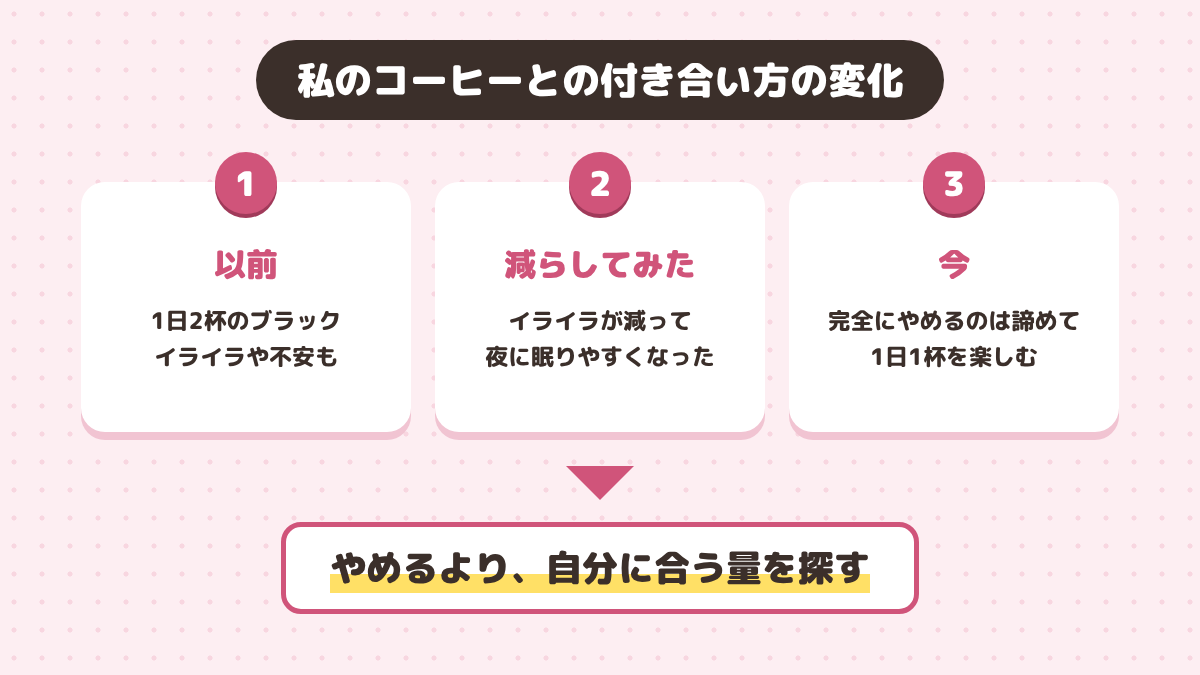
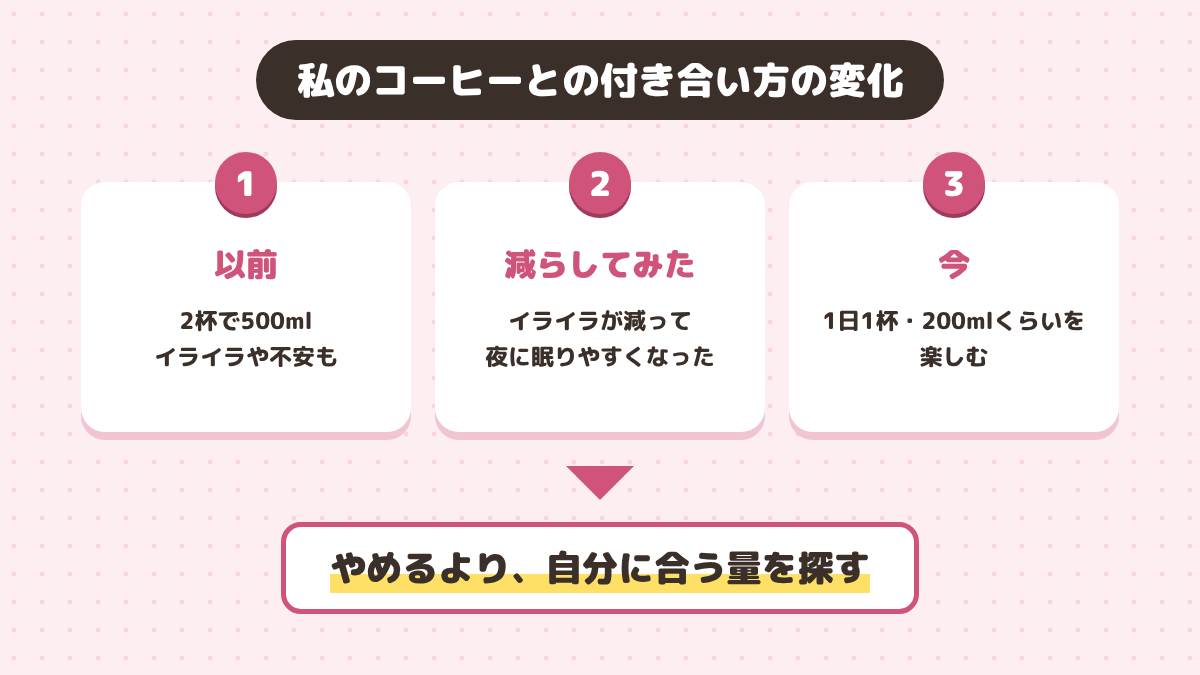
投稿141・151を改稿して反映、登録リクエスト一覧と作業メモを更新
Claude-Session: https://claude.ai/code/session_01AbwgezYxuzkhNMxoZh4PnK

Changed region(s): [[0.6783, 0.4356, 0.925, 0.56], [0.1233, 0.4356, 0.2775, 0.4978]]

diff --git a/ブログジャンル選定/記事_コーヒーを減らした.md b/ブログジャンル選定/記事_コーヒーを減らした.md
@@ -12,11 +12,11 @@
 
 ## 減らす前の私：1日2杯のブラックコーヒー
 
-以前の私は、コーヒーを1日2杯、500mlを朝と昼に飲んでいました。ブラックで飲むことが多く、量としてはかなり多かったと思います。
+以前の私は、朝と昼にコーヒーを1杯ずつ、2杯で合わせて500mlくらい飲んでいました。ブラックで飲むことが多く、量としてはかなり多かったと思います。
 
 飲んだ直後はシャキッとします。頭が働く感じがして、やる気も出る。でもその一方で、こんなことがありました。
 
-<div class="blank-box bb-orange"><p><strong>コーヒーを飲みすぎていた頃に感じていたこと</strong></p><ul><li>頭が痛くなる</li><li>イライラしやすい</li><li>不安感が強くなる</li><li>夜に動悸のようなものを感じる</li><li>体は疲れているのに、頭だけ起きている感じで眠りにくい</li></ul></div>
+<div class="blank-box bb-orange"><p><strong>コーヒーを飲みすぎていた頃に感じていたこと</strong></p><ul><li>頭が痛くなる</li><li>イライラしやすい</li><li>不安感が強くなる</li><li>夜に動悸のようなものを感じる</li><li>体は疲れているのに、頭だけ起きている感じで眠りにくい（500ml飲んだ日は、夜に眠れなくなることもあった）</li></ul></div>
 
 「自分にはちょっと強いのかもしれない」。そう思って、量を減らしてみることにしました。
 
@@ -57,7 +57,9 @@ https://health-reset-note.com/adhd%e3%81%a8%e7%9d%a1%e7%9c%a0%e3%81%af%e9%96%a2%
 
 ## 結局、完全にやめるのはあきらめた
 
-正直に書くと、その後、コーヒーを完全にやめることはあきらめました。今は、1日1杯は飲んでいます。
+正直に書くと、その後、コーヒーを完全にやめることはあきらめました。今は、1日1杯、200mlくらいは飲んでいます。よく飲む日でも、250〜300mlまでです。
+
+500mlまで飲むと、夜に眠れなくなってしまいます。だから私にとっては、==1日200〜300mlくらいが、眠りを邪魔しない目安==になっています。
 
 コーヒーは、私にとって楽しみの一つでもあります。完全にやめてしまうと、その楽しみまでなくなってしまう。それはそれで、毎日が少し味気なくなります。
 
@@ -75,7 +77,7 @@ https://health-reset-note.com/adhd%e3%81%a8%e7%9d%a1%e7%9c%a0%e3%81%af%e9%96%a2%
 
 ## まとめ：やめるより、自分に合う量を探す
 
-<div class="tab-caption-box"><div class="tab-caption-box-label">私のコーヒーとの付き合い方</div><div class="tab-caption-box-content"><ul><li>以前：1日2杯（500mlを朝と昼に）で、イライラや不安、眠りにくさがあった</li><li>減らしてみたら：イライラが減り、夜も眠りやすくなった（午前中はつらかった）</li><li>今：完全にやめるのはあきらめて、1日1杯を楽しむ</li></ul></div></div>
+<div class="tab-caption-box"><div class="tab-caption-box-label">私のコーヒーとの付き合い方</div><div class="tab-caption-box-content"><ul><li>以前：朝と昼の2杯で合わせて500ml。イライラや不安、眠りにくさがあった</li><li>減らしてみたら：イライラが減り、夜も眠りやすくなった（午前中はつらかった）</li><li>今：完全にやめるのはあきらめて、1日1杯・200mlくらいを楽しむ（多い日でも250〜300ml）</li></ul></div></div>
 
 コーヒーは、うまく使えば本当に便利です。ただ、私の場合は、飲みすぎると落ち着かなさや眠りの浅さにつながっていました。
 

diff --git a/ブログジャンル選定/作業メモ_ブログ改善.md b/ブログジャンル選定/作業メモ_ブログ改善.md
@@ -22,6 +22,7 @@
 | 11/7 | サーチコンソールの所有権を確認（HTMLタグを Cocoon のヘッド用コードに設置）、サイトマップを再送信。8記事をURL検査し、街コン・ステップファミリー2本は登録リクエスト、残り5本は登録済み |
 | 11/8 | 投稿165「人の顔色ばかり気にしてしまう」を改稿・反映（職場の場面と3つの対処を中心に、幼少期は要約して投稿274へリンク。吹き出し4・図解1、元の本文は backup/post_165_original.html） |
 | 11/8 | 投稿190を「考えすぎて疲れたときの脳の休ませ方5選」として単体で読める形に改稿・反映（【後編】を外す、外で緑を見る話を追加、元恋人の家の話を過去形に。吹き出し3・図解1、アイキャッチ作り直し メディアID 417） |
+| 11/8 | 投稿141（健康法）・151（コーヒー）を改稿・反映。重なっていたコーヒーの話は151に集約し、141は番外編として短くリンク。151に今の量（1日200ml前後、多い日も250〜300ml。以前は2杯で500ml）を追記、もしものデカフェリンクはそのまま。一人称を「私」に。図解 メディアID 419・420、151のアイキャッチ 422 |
 
 ※ 投稿295・243はどちらも「公開」状態のまま上書きしています。
 
@@ -112,3 +113,6 @@ python3 wp_post_draft.py --update 投稿ID 記事.md [アイキャッチ画像.p
 3. 街コン・ステップファミリー2本が登録されたか、URL検査で確認
 4. ブログのキャッチフレーズを今のテーマに合わせるか相談
 5. アナリティクスの測定IDを設定
+
+- 投稿151のブログカードに出る投稿92（ADHDと睡眠）の抜粋に「僕」が残っている → 92を改稿するときに直す
+- 投稿156（弟の様子）は、本人が来週家族に会ってから改稿する（公開を続けてよいかも確認する）

diff --git a/ブログジャンル選定/記事_合わなかった健康法.md b/ブログジャンル選定/記事_合わなかった健康法.md
@@ -70,7 +70,7 @@ https://health-reset-note.com/%e9%9b%86%e4%b8%ad%e5%8a%9b%e3%81%8c%e7%b6%9a%e3%8
 
 意外だったのは、コーヒーです。飲むと元気が出る感覚はある一方で、神経が張りつめるような感じや、少し散漫になる感じがありました。眠りの質にも影響していたように思います。
 
-そこで量を減らしてみたところ、睡眠や気分に少し変化がありました。ただ、完全にやめるのは楽しみがなくなるので、今は1日1杯と付き合っています。その体験は、こちらの記事に詳しく書いています。
+そこで量を減らしてみたところ、睡眠や気分に少し変化がありました。ただ、完全にやめるのは楽しみがなくなるので、今は1日1杯（200mlくらい）と付き合っています。その体験は、こちらの記事に詳しく書いています。
 
 https://health-reset-note.com/%e3%82%b3%e3%83%bc%e3%83%92%e3%83%bc%e3%82%92%e6%b8%9b%e3%82%89%e3%81%97%e3%81%a6%e3%81%bf%e3%81%9f%e3%82%89%e3%80%81%e7%9d%a1%e7%9c%a0%e3%81%a8%e6%b0%97%e5%88%86%e3%81%ab%e5%b0%91%e3%81%97%e5%a4%89/
 

diff --git a/ブログジャンル選定/サーチコンソール_登録リクエスト一覧.md b/ブログジャンル選定/サーチコンソール_登録リクエスト一覧.md
@@ -14,3 +14,5 @@
 | 8 | ステップファミリーになる前に学んだこと | https://health-reset-note.com/ステップファミリーになる前に学んだこと。シン/ | 11/7 リクエスト済み |
 | 9 | 人の顔色ばかり気にしてしまう（11/8改稿） | https://health-reset-note.com/人の顔色ばかり気にしてしまう。「愛着」を学/ | |
 | 10 | 考えすぎて疲れたときの脳の休ませ方5選（11/8改稿、旧【後編】） | https://health-reset-note.com/考えすぎて疲れる人へ｜ぼーっとできない理由と-2/ | |
+| 11 | 健康法が続かないのは意志が弱いから？（11/8改稿） | https://health-reset-note.com/自分に合わなかった健康法をやめたら、少しラク/ | |
+| 12 | コーヒーを減らしたら睡眠と気分はどう変わった？（11/8改稿） | https://health-reset-note.com/コーヒーを減らしてみたら、睡眠と気分に少し変/ | |
